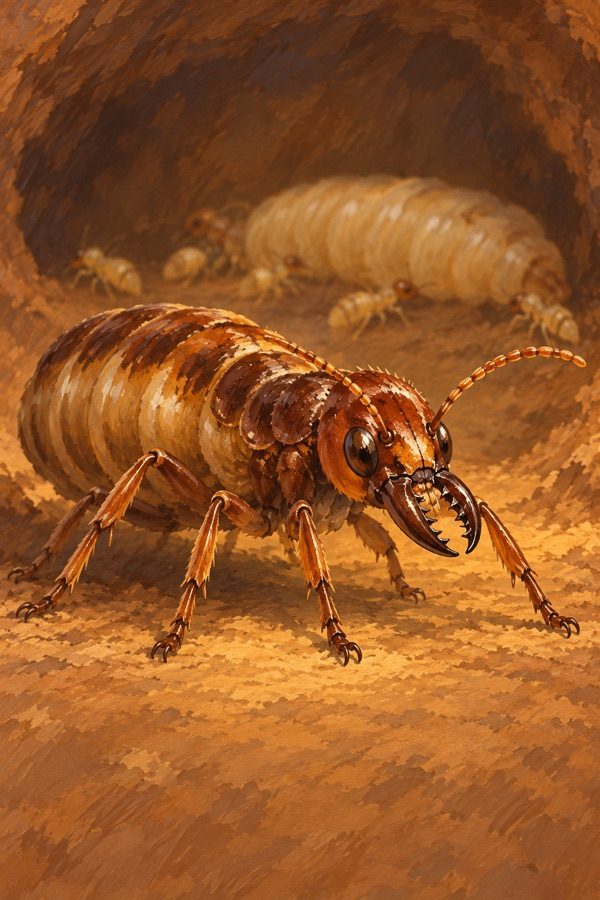
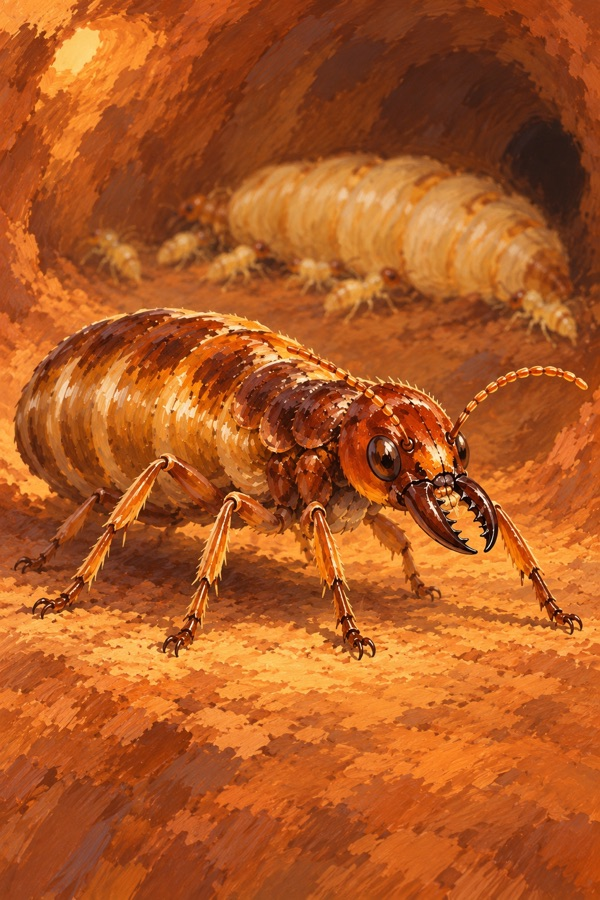
Art: Crocodile (new) and Termite King repainted

diff --git a/animal_kingdom/web/static/art.js b/animal_kingdom/web/static/art.js
@@ -21,7 +21,7 @@ export const CROP = {
   eagle: [.56, .42, .62], owl: [.57, .25, .55], raven: [.64, .44, .7], goliath: [.62, .56, .62], rattlesnake: [.52, .36, .55],
   viper: [.65, .38, .6], stoop: [.55, .45, .7], magpie: [.6, .38, .75], black_mamba: [.52, .42, .75], taipan: [.45, .4, .8],
   queen_bee: [.55, .42, .75], guard_hornet: [.58, .42, .8], soldier_ant: [.55, .38, .75], worker_wasp: [.6, .38, .75], worker_bee: [.52, .42, .8],
-  nurse_bee: [.6, .5, .8], nurse_bumblebee: [.5, .45, .8], termite_king: [.55, .5, .8], termite_queen: [.45, .47, .9], naked_mole_rat: [.55, .5, .75],
+  nurse_bee: [.6, .5, .8], nurse_bumblebee: [.5, .45, .8], termite_king: [.5, .5, .9], crocodile: [.55, .57, .85], termite_queen: [.45, .47, .9], naked_mole_rat: [.55, .5, .75],
   cairn: [.66, .44, .66], chipmunk: [.6, .45, .8], gopher: [.52, .38, .8], groundhog: [.55, .36, .65], hamster: [.52, .42, .72], hedgehog: [.5, .45, .8], muskrat: [.56, .42, .86],
   armadillo: [.72, .38, .6], chinchilla: [.68, .38, .7], flying_squirrel: [.62, .5, .7], porcupine: [.35, .48, .62], fathom: [.5, .42, .8],
   greywhisker: [.5, .33, .65], rat_king: [.52, .35, .8], scrooge: [.62, .45, .62],
@@ -45,7 +45,7 @@ export const STRIP = {
   cougar: [.73, .38, 1.1], house_cat: [.43, .37, 1.5], eon: [.62, .29, 1], goliath: [.62, .55, 1.2], ember: [.75, .17, 1.5], aurum: [.6, .45, 1.2], anaconda: [.5, .55, 1.2], egg_eater: [.72, .26, 1.3], snake_egg: [.58, .45, 1.3], bird_egg: [.6, .33, 1.2],
   rattlesnake: [.53, .35, 1.3], omen: [.72, .3, 1.7], stoop: [.58, .47, 1.8], eagle: [.63, .43, 1.8], owl: [.6, .24, 1.2], taipan: [.6, .3, 1],
   viper: [.63, .35, 1], magpie: [.73, .34, 1.7], black_mamba: [.58, .3, 1], raven: [.77, .47, 1.7], queen_marabunta: [.8, .53, 1.7], vesper: [.66, .47, 1.1],
-  queen_honoria: [.62, .32, 1.2], falstaff: [.6, .33, 1.1], nurse_bee: [.58, .45, 1.2], nurse_bumblebee: [.65, .4, 1.1], termite_king: [.73, .47, 1], termite_queen: [.3, .47, 1], naked_mole_rat: [.4, .45, 1],
+  queen_honoria: [.62, .32, 1.2], falstaff: [.6, .33, 1.1], nurse_bee: [.58, .45, 1.2], nurse_bumblebee: [.65, .4, 1.1], termite_king: [.75, .56, 1], crocodile: [.6, .6, 1], termite_queen: [.3, .47, 1], naked_mole_rat: [.4, .45, 1],
   queen_bee: [.65, .42, 1.3], guard_hornet: [.43, .4, 1], soldier_ant: [.55, .34, 1.3], worker_ant: [.52, .32, 1], worker_wasp: [.62, .4, 1.1], worker_bee: [.6, .42, 1.2],
   methuselah: [.62, .33, 1], borealis: [.83, .17, 1], bulwark: [.6, .33, 1.1], cairn: [.7, .42, 1.1], polar_bear: [.52, .32, 1.3], rhinoceros: [.68, .42, 1],
   hippopotamus: [.55, .15, 1], andean_condor: [.6, .25, 1.6], elephant: [.57, .26, 1], grizzly_bear: [.72, .3, 1], oxpecker: [.62, .25, 1.3], vulture: [.72, .5, 1.2], black_bear: [.38, .28, 1.5],
@@ -81,7 +81,7 @@ export const FULL = {
   owl: .385, pestis: .405, poppy: .355, porcupine: .435, prince_leo: .365, princess_lea: .395, pup: .365, queen_adira: .375,
   queen_bee: .425, queen_marabunta: .455, raksha: .425, rat: .475, rat_king: .365, rattlesnake: .555, raven: .405,
   red_wolf: .445, rhinoceros: .395, rusty: .345, scrooge: .485, serval: .5, sirocco: .415, skunk: .395, sloth: .4,
-  snake_egg: .445, snow_leopard: .385, soldier_ant: .465, squirrel: .455, taipan: .405, termite_king: .485,
+  snake_egg: .445, snow_leopard: .385, soldier_ant: .465, squirrel: .455, taipan: .405, termite_king: .5, crocodile: .6,
   termite_queen: .47, naked_mole_rat: .52, tiger: .505, verminus: .345, vesper: .425, viper: .415, worker_ant: .465, worker_bee: .355,
   worker_wasp: .375,
 };
